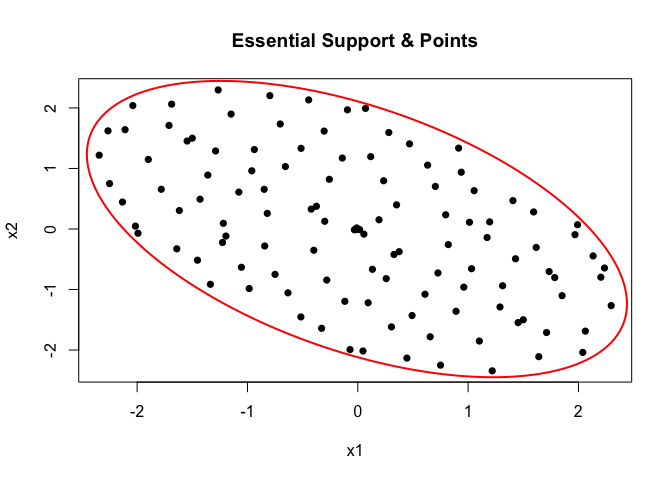
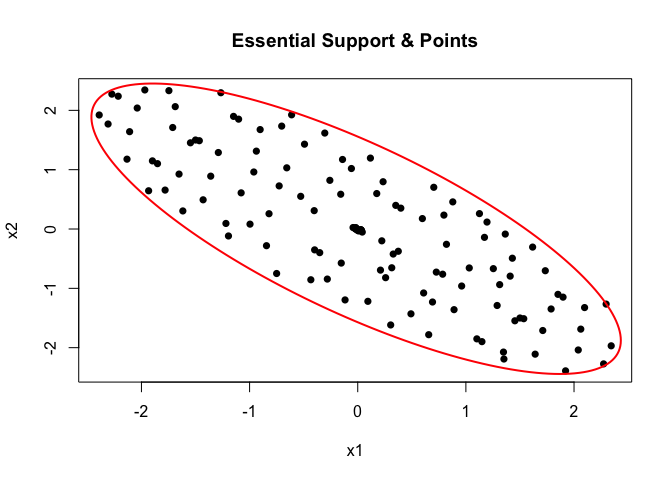
quad issue in 1D
fixed the design matrix problem of quad = TRUE when D = 1

diff --git a/docs/index.html b/docs/index.html
@@ -74,12 +74,12 @@
 <span>            alpha <span class="op">=</span> <span class="fl">0.05</span>, h <span class="op">=</span> <span class="fl">0.1</span>, verbose <span class="op">=</span> <span class="fl">1</span><span class="op">)</span></span>
 <span><span class="co">#&gt; Stage 1: Bayesian Optimization via Mode-Seeking Surrogate (BOSS) started.</span></span>
 <span><span class="co">#&gt; Stage 1: BOSS finished.</span></span>
-<span><span class="co">#&gt; Total time taken: 1.68 seconds.</span></span>
+<span><span class="co">#&gt; Total time taken: 1.46 seconds.</span></span>
 <span><span class="co">#&gt; Start updating Hessian at the mode...</span></span>
-<span><span class="co">#&gt; Hessian updated in  0  seconds.</span></span>
+<span><span class="co">#&gt; Hessian updated in  0.01  seconds.</span></span>
 <span><span class="co">#&gt; Stage 2: Fill-in to target spacing h =  0.1 </span></span>
-<span><span class="co">#&gt; fill in: added 18 point(s).</span></span>
-<span><span class="co">#&gt; Final update completed in  0.01  seconds.</span></span>
+<span><span class="co">#&gt; fill in: added 17 point(s).</span></span>
+<span><span class="co">#&gt; Final update completed in  0.02  seconds.</span></span>
 <span><span class="fu"><a href="https://rdrr.io/r/graphics/plot.default.html" class="external-link">plot</a></span><span class="op">(</span><span class="va">br2</span><span class="op">)</span></span></code></pre></div>
 <p><img src="reference/figures/README-unnamed-chunk-2-1.png" width="100%"><img src="reference/figures/README-unnamed-chunk-2-2.png" width="100%"></p>
 <p>For more advanced applications, the user can also manually perform each step of the BOSS algorithm, as shown below:</p>
@@ -88,17 +88,18 @@
 <span><span class="va">br</span> <span class="op">&lt;-</span> <span class="fu">BOSS</span><span class="fu">:::</span><span class="fu"><a href="reference/BOSS_modal.html">BOSS_modal</a></span><span class="op">(</span>func <span class="op">=</span> <span class="va">f1d</span>, D <span class="op">=</span> <span class="fl">1</span>,</span>
 <span>                        lower <span class="op">=</span> <span class="fl">0</span>, upper <span class="op">=</span> <span class="fl">2</span>,</span>
 <span>                        update_step <span class="op">=</span> <span class="fl">5</span>,</span>
+<span>                        quad <span class="op">=</span> <span class="cn">FALSE</span>,</span>
 <span>                        max_iter <span class="op">=</span> <span class="fl">20</span>,</span>
 <span>                        verbose <span class="op">=</span> <span class="fl">1</span><span class="op">)</span></span>
 <span><span class="co">#&gt; Stage 1: Bayesian Optimization via Mode-Seeking Surrogate (BOSS) started.</span></span>
 <span><span class="co">#&gt; Stage 1: BOSS finished.</span></span>
-<span><span class="co">#&gt; Total time taken: 0.82 seconds.</span></span>
+<span><span class="co">#&gt; Total time taken: 1.14 seconds.</span></span>
 <span><span class="va">br</span> <span class="op">&lt;-</span> <span class="fu"><a href="reference/update_hessian.html">update_hessian</a></span><span class="op">(</span><span class="va">br</span><span class="op">)</span></span>
 <span><span class="va">br</span> <span class="op">&lt;-</span> <span class="fu"><a href="reference/compute_essential_support.html">compute_essential_support</a></span><span class="op">(</span><span class="va">br</span>, alpha<span class="op">=</span><span class="fl">0.05</span><span class="op">)</span></span>
 <span><span class="va">br</span> <span class="op">&lt;-</span> <span class="fu"><a href="reference/construct_essential_designs.html">construct_essential_designs</a></span><span class="op">(</span><span class="va">br</span><span class="op">)</span></span>
 <span><span class="va">br</span> <span class="op">&lt;-</span> <span class="fu"><a href="reference/compute_fill_in.html">compute_fill_in</a></span><span class="op">(</span><span class="va">br</span><span class="op">)</span></span>
 <span><span class="va">br</span> <span class="op">&lt;-</span> <span class="fu"><a href="reference/fill_in.html">fill_in</a></span><span class="op">(</span><span class="va">br</span>, h <span class="op">=</span> <span class="fl">0.1</span>, verbose <span class="op">=</span> <span class="fl">1</span>, max_add <span class="op">=</span> <span class="fl">100</span><span class="op">)</span></span>
-<span><span class="co">#&gt; fill in: added 17 point(s).</span></span>
+<span><span class="co">#&gt; fill in: added 19 point(s).</span></span>
 <span><span class="va">br_update</span> <span class="op">&lt;-</span> <span class="fu"><a href="reference/update_boss.html">update_boss</a></span><span class="op">(</span><span class="va">br</span><span class="op">)</span></span>
 <span><span class="fu"><a href="https://rdrr.io/r/graphics/plot.default.html" class="external-link">plot</a></span><span class="op">(</span><span class="va">br_update</span><span class="op">)</span></span></code></pre></div>
 <p><img src="reference/figures/README-unnamed-chunk-3-1.png" width="100%"><img src="reference/figures/README-unnamed-chunk-3-2.png" width="100%"></p>
@@ -117,7 +118,7 @@
 <span>            alpha <span class="op">=</span> <span class="fl">0.05</span>, h <span class="op">=</span> <span class="fl">0.1</span>, verbose <span class="op">=</span> <span class="fl">1</span><span class="op">)</span></span>
 <span><span class="co">#&gt; Stage 1: Bayesian Optimization via Mode-Seeking Surrogate (BOSS) started.</span></span>
 <span><span class="co">#&gt; Stage 1: BOSS finished.</span></span>
-<span><span class="co">#&gt; Total time taken: 1.88 seconds.</span></span>
+<span><span class="co">#&gt; Total time taken: 2.45 seconds.</span></span>
 <span><span class="co">#&gt; Start updating Hessian at the mode...</span></span>
 <span><span class="co">#&gt; Hessian updated in  0.01  seconds.</span></span>
 <span><span class="co">#&gt; Stage 2: Fill-in to target spacing h =  0.1</span></span>
@@ -126,7 +127,7 @@
 <span><span class="co">#&gt; achieved.</span></span>
 <span><span class="co">#&gt; fill in: added 100 point(s).</span></span>
 <span><span class="co">#&gt; Warning in (function (boss_result, h, max_add = 100, n_sample_max = 10000, :</span></span>
-<span><span class="co">#&gt; Updated fill-in distance is (0.467506) &gt; target h (0.100000); Adjust your</span></span>
+<span><span class="co">#&gt; Updated fill-in distance is (0.423571) &gt; target h (0.100000); Adjust your</span></span>
 <span><span class="co">#&gt; expectation by either increasing max_add and n_sample_max or increasing h.</span></span>
 <span><span class="co">#&gt; Final update completed in  0.09  seconds.</span></span>
 <span><span class="fu"><a href="https://rdrr.io/r/graphics/plot.default.html" class="external-link">plot</a></span><span class="op">(</span><span class="va">br3</span><span class="op">)</span></span></code></pre></div>
@@ -136,12 +137,13 @@
 <code class="sourceCode R"><span><span class="va">br3</span> <span class="op">&lt;-</span> <span class="fu">BOSS</span><span class="fu">:::</span><span class="fu"><a href="reference/BOSS_modal.html">BOSS_modal</a></span><span class="op">(</span>func <span class="op">=</span> <span class="va">f2d</span>, D <span class="op">=</span> <span class="fl">2</span>,</span>
 <span>                        lower <span class="op">=</span> <span class="op">-</span><span class="fu"><a href="https://rdrr.io/r/base/c.html" class="external-link">c</a></span><span class="op">(</span><span class="fl">3</span>,<span class="fl">3</span><span class="op">)</span>, upper <span class="op">=</span> <span class="fu"><a href="https://rdrr.io/r/base/c.html" class="external-link">c</a></span><span class="op">(</span><span class="fl">3</span>,<span class="fl">3</span><span class="op">)</span>,</span>
 <span>                        initial_design <span class="op">=</span> <span class="fl">10</span>,</span>
+<span>                        quad <span class="op">=</span> <span class="cn">TRUE</span>,</span>
 <span>                        update_step <span class="op">=</span> <span class="fl">10</span>,</span>
 <span>                        max_iter <span class="op">=</span> <span class="fl">100</span>,</span>
 <span>                        verbose <span class="op">=</span> <span class="fl">1</span><span class="op">)</span></span>
 <span><span class="co">#&gt; Stage 1: Bayesian Optimization via Mode-Seeking Surrogate (BOSS) started.</span></span>
 <span><span class="co">#&gt; Stage 1: BOSS finished.</span></span>
-<span><span class="co">#&gt; Total time taken: 2.47 seconds.</span></span>
+<span><span class="co">#&gt; Total time taken: 6.6 seconds.</span></span>
 <span></span>
 <span><span class="va">br3</span> <span class="op">&lt;-</span> <span class="fu"><a href="reference/update_hessian.html">update_hessian</a></span><span class="op">(</span><span class="va">br3</span><span class="op">)</span></span>
 <span><span class="va">br3</span> <span class="op">&lt;-</span> <span class="fu"><a href="reference/compute_essential_support.html">compute_essential_support</a></span><span class="op">(</span><span class="va">br3</span>, alpha <span class="op">=</span> <span class="fl">0.05</span><span class="op">)</span></span>
@@ -151,7 +153,7 @@
 <span><span class="co">#&gt; Warning in fill_in(br3, h = 0.1, max_add = 100): Number of points to be added</span></span>
 <span><span class="co">#&gt; is greater than max_add. Required h may not be achieved.</span></span>
 <span><span class="co">#&gt; Warning in fill_in(br3, h = 0.1, max_add = 100): Updated fill-in distance is</span></span>
-<span><span class="co">#&gt; (0.440402) &gt; target h (0.100000); Adjust your expectation by either increasing</span></span>
+<span><span class="co">#&gt; (0.431124) &gt; target h (0.100000); Adjust your expectation by either increasing</span></span>
 <span><span class="co">#&gt; max_add and n_sample_max or increasing h.</span></span>
 <span><span class="fu"><a href="https://rdrr.io/r/graphics/plot.default.html" class="external-link">plot</a></span><span class="op">(</span><span class="va">br3</span><span class="op">)</span></span></code></pre></div>
 <p><img src="reference/figures/README-unnamed-chunk-4-1.png" width="100%"></p>
@@ -168,9 +170,9 @@
 <code class="sourceCode R"><span><span class="va">br3_update_faster</span> <span class="op">&lt;-</span> <span class="fu"><a href="reference/update_boss_faster.html">update_boss_faster</a></span><span class="op">(</span><span class="va">br3</span><span class="op">)</span></span></code></pre></div>
 <div class="sourceCode" id="cb9"><pre class="downlit sourceCode r">
 <code class="sourceCode R"><span><span class="va">br3_update</span><span class="op">$</span><span class="fu">surrogate</span><span class="op">(</span><span class="fu"><a href="https://rdrr.io/r/base/c.html" class="external-link">c</a></span><span class="op">(</span><span class="fl">1</span>,<span class="fl">1</span><span class="op">)</span><span class="op">)</span></span>
-<span><span class="co">#&gt; [1] -3.710088</span></span>
+<span><span class="co">#&gt; [1] -5.720378</span></span>
 <span><span class="va">br3_update_faster</span><span class="op">$</span><span class="fu">surrogate</span><span class="op">(</span><span class="fu"><a href="https://rdrr.io/r/base/c.html" class="external-link">c</a></span><span class="op">(</span><span class="fl">1</span>,<span class="fl">1</span><span class="op">)</span><span class="op">)</span></span>
-<span><span class="co">#&gt; [1] -3.710088</span></span></code></pre></div>
+<span><span class="co">#&gt; [1] -5.720378</span></span></code></pre></div>
 <div class="sourceCode" id="cb10"><pre class="downlit sourceCode r">
 <code class="sourceCode R"><span><span class="va">compare_runtime</span> <span class="op">&lt;-</span> <span class="fu">microbenchmark</span><span class="fu">::</span><span class="fu"><a href="https://rdrr.io/pkg/microbenchmark/man/microbenchmark.html" class="external-link">microbenchmark</a></span><span class="op">(</span></span>
 <span>  <span class="va">br3_update</span><span class="op">$</span><span class="fu">surrogate</span><span class="op">(</span><span class="fu"><a href="https://rdrr.io/r/base/c.html" class="external-link">c</a></span><span class="op">(</span><span class="fl">1</span>,<span class="fl">1</span><span class="op">)</span><span class="op">)</span>,</span>
@@ -183,12 +185,12 @@
 <span></span>
 <span><span class="va">compare_runtime</span></span>
 <span><span class="co">#&gt; Unit: milliseconds</span></span>
-<span><span class="co">#&gt;                                  expr      min       lq       mean   median</span></span>
-<span><span class="co">#&gt;         br3_update$surrogate(c(1, 1)) 0.755343 0.882853 1.10735334 0.922008</span></span>
-<span><span class="co">#&gt;  br3_update_faster$surrogate(c(1, 1)) 0.060065 0.064534 0.07178456 0.067650</span></span>
-<span><span class="co">#&gt;         uq       max neval</span></span>
-<span><span class="co">#&gt;  0.9703265 34.588379  1000</span></span>
-<span><span class="co">#&gt;  0.0721805  0.953537  1000</span></span></code></pre></div>
+<span><span class="co">#&gt;                                  expr      min        lq       mean   median</span></span>
+<span><span class="co">#&gt;         br3_update$surrogate(c(1, 1)) 1.552998 1.6727590 1.85613851 1.714271</span></span>
+<span><span class="co">#&gt;  br3_update_faster$surrogate(c(1, 1)) 0.079950 0.0855875 0.09662696 0.090487</span></span>
+<span><span class="co">#&gt;        uq      max neval</span></span>
+<span><span class="co">#&gt;  1.787313 7.150113  1000</span></span>
+<span><span class="co">#&gt;  0.097252 2.769140  1000</span></span></code></pre></div>
 </div>
 </div>
   </main><aside class="col-md-3"><div class="license">

diff --git a/README.md b/README.md
@@ -47,12 +47,12 @@ br2 <- boss(f1d, D = 1,
             alpha = 0.05, h = 0.1, verbose = 1)
 #> Stage 1: Bayesian Optimization via Mode-Seeking Surrogate (BOSS) started.
 #> Stage 1: BOSS finished.
-#> Total time taken: 1.68 seconds.
+#> Total time taken: 1.46 seconds.
 #> Start updating Hessian at the mode...
-#> Hessian updated in  0  seconds.
+#> Hessian updated in  0.01  seconds.
 #> Stage 2: Fill-in to target spacing h =  0.1 
-#> fill in: added 18 point(s).
-#> Final update completed in  0.01  seconds.
+#> fill in: added 17 point(s).
+#> Final update completed in  0.02  seconds.
 plot(br2)
 ```
 
@@ -66,17 +66,18 @@ step of the BOSS algorithm, as shown below:
 br <- BOSS:::BOSS_modal(func = f1d, D = 1,
                         lower = 0, upper = 2,
                         update_step = 5,
+                        quad = FALSE,
                         max_iter = 20,
                         verbose = 1)
 #> Stage 1: Bayesian Optimization via Mode-Seeking Surrogate (BOSS) started.
 #> Stage 1: BOSS finished.
-#> Total time taken: 0.82 seconds.
+#> Total time taken: 1.14 seconds.
 br <- update_hessian(br)
 br <- compute_essential_support(br, alpha=0.05)
 br <- construct_essential_designs(br)
 br <- compute_fill_in(br)
 br <- fill_in(br, h = 0.1, verbose = 1, max_add = 100)
-#> fill in: added 17 point(s).
+#> fill in: added 19 point(s).
 br_update <- update_boss(br)
 plot(br_update)
 ```
@@ -99,7 +100,7 @@ br3 <- boss(f2d, D = 2,
             alpha = 0.05, h = 0.1, verbose = 1)
 #> Stage 1: Bayesian Optimization via Mode-Seeking Surrogate (BOSS) started.
 #> Stage 1: BOSS finished.
-#> Total time taken: 1.88 seconds.
+#> Total time taken: 2.45 seconds.
 #> Start updating Hessian at the mode...
 #> Hessian updated in  0.01  seconds.
 #> Stage 2: Fill-in to target spacing h =  0.1
@@ -108,7 +109,7 @@ br3 <- boss(f2d, D = 2,
 #> achieved.
 #> fill in: added 100 point(s).
 #> Warning in (function (boss_result, h, max_add = 100, n_sample_max = 10000, :
-#> Updated fill-in distance is (0.467506) > target h (0.100000); Adjust your
+#> Updated fill-in distance is (0.423571) > target h (0.100000); Adjust your
 #> expectation by either increasing max_add and n_sample_max or increasing h.
 #> Final update completed in  0.09  seconds.
 plot(br3)
@@ -122,12 +123,13 @@ Similarly, users can also have more modular control over the procedure:
 br3 <- BOSS:::BOSS_modal(func = f2d, D = 2,
                         lower = -c(3,3), upper = c(3,3),
                         initial_design = 10,
+                        quad = TRUE,
                         update_step = 10,
                         max_iter = 100,
                         verbose = 1)
 #> Stage 1: Bayesian Optimization via Mode-Seeking Surrogate (BOSS) started.
 #> Stage 1: BOSS finished.
-#> Total time taken: 2.47 seconds.
+#> Total time taken: 6.6 seconds.
 
 br3 <- update_hessian(br3)
 br3 <- compute_essential_support(br3, alpha = 0.05)
@@ -137,7 +139,7 @@ br3 <- fill_in(br3, h = 0.1, max_add = 100)
 #> Warning in fill_in(br3, h = 0.1, max_add = 100): Number of points to be added
 #> is greater than max_add. Required h may not be achieved.
 #> Warning in fill_in(br3, h = 0.1, max_add = 100): Updated fill-in distance is
-#> (0.440402) > target h (0.100000); Adjust your expectation by either increasing
+#> (0.431124) > target h (0.100000); Adjust your expectation by either increasing
 #> max_add and n_sample_max or increasing h.
 plot(br3)
 ```
@@ -170,9 +172,9 @@ br3_update_faster <- update_boss_faster(br3)
 
 ``` r
 br3_update$surrogate(c(1,1))
-#> [1] -3.710088
+#> [1] -5.720378
 br3_update_faster$surrogate(c(1,1))
-#> [1] -3.710088
+#> [1] -5.720378
 ```
 
 ``` r
@@ -187,10 +189,10 @@ compare_runtime <- microbenchmark::microbenchmark(
 
 compare_runtime
 #> Unit: milliseconds
-#>                                  expr      min       lq       mean   median
-#>         br3_update$surrogate(c(1, 1)) 0.755343 0.882853 1.10735334 0.922008
-#>  br3_update_faster$surrogate(c(1, 1)) 0.060065 0.064534 0.07178456 0.067650
-#>         uq       max neval
-#>  0.9703265 34.588379  1000
-#>  0.0721805  0.953537  1000
+#>                                  expr      min        lq       mean   median
+#>         br3_update$surrogate(c(1, 1)) 1.552998 1.6727590 1.85613851 1.714271
+#>  br3_update_faster$surrogate(c(1, 1)) 0.079950 0.0855875 0.09662696 0.090487
+#>        uq      max neval
+#>  1.787313 7.150113  1000
+#>  0.097252 2.769140  1000
 ```
